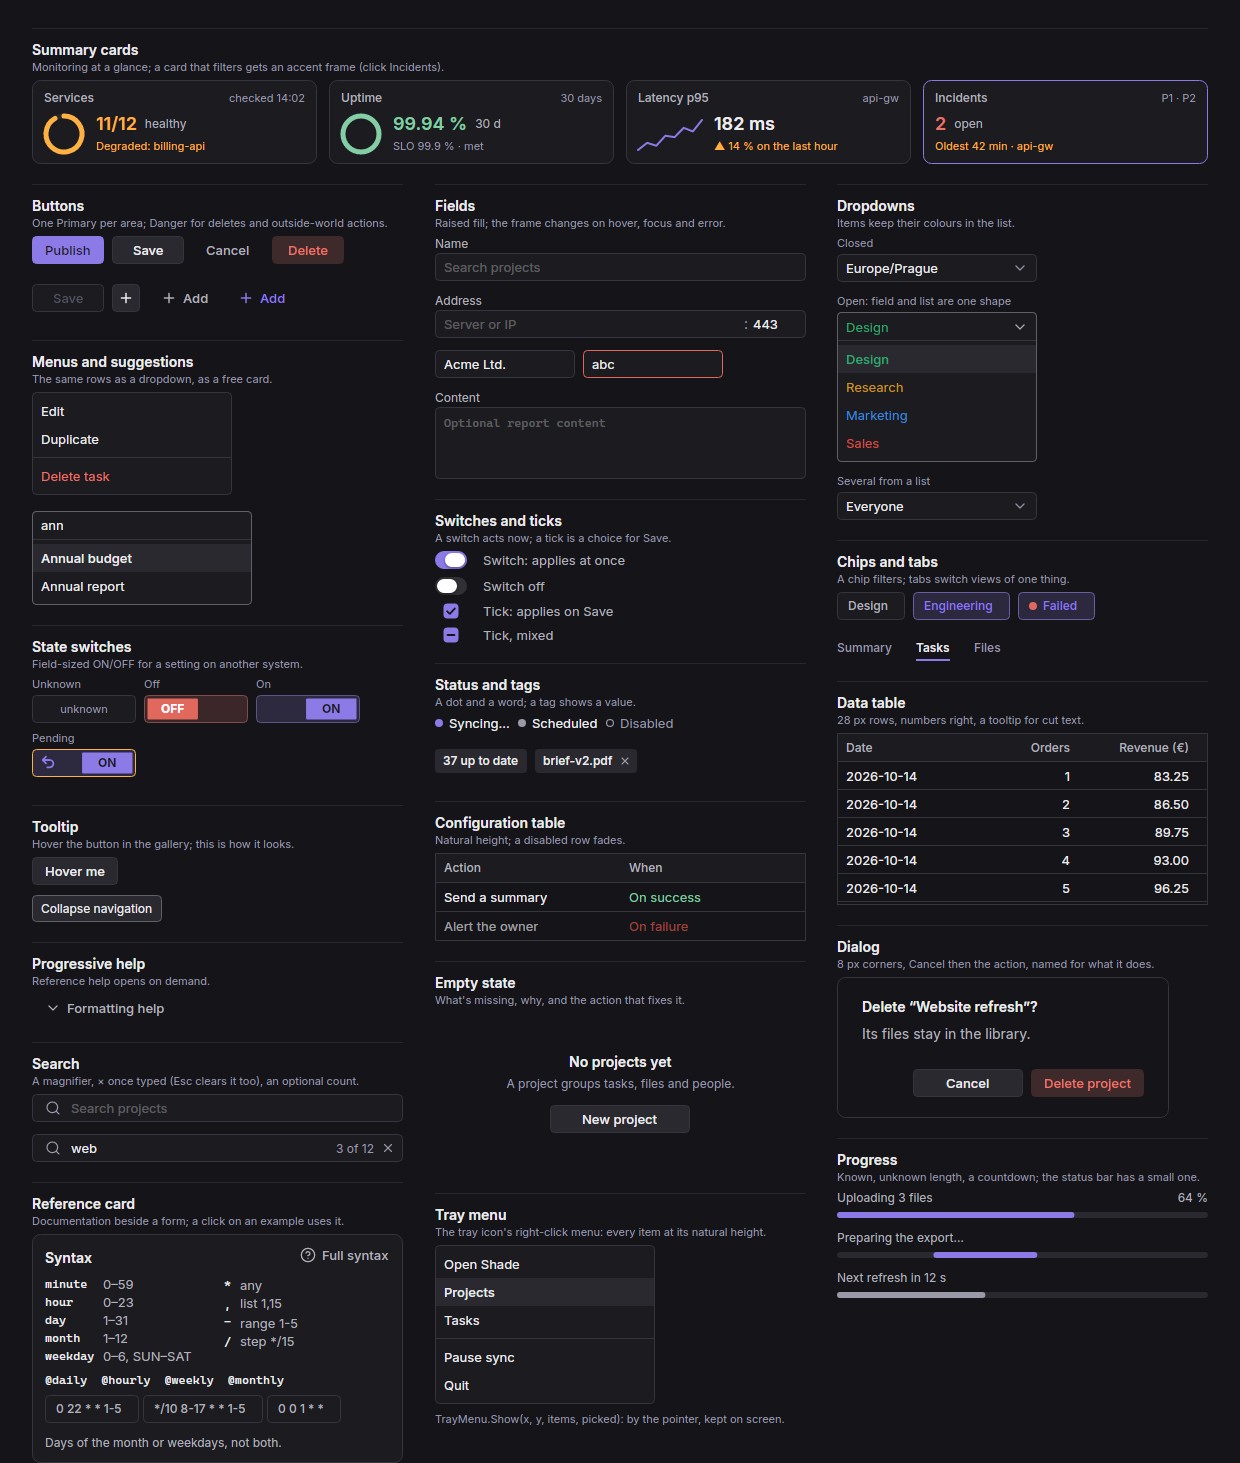
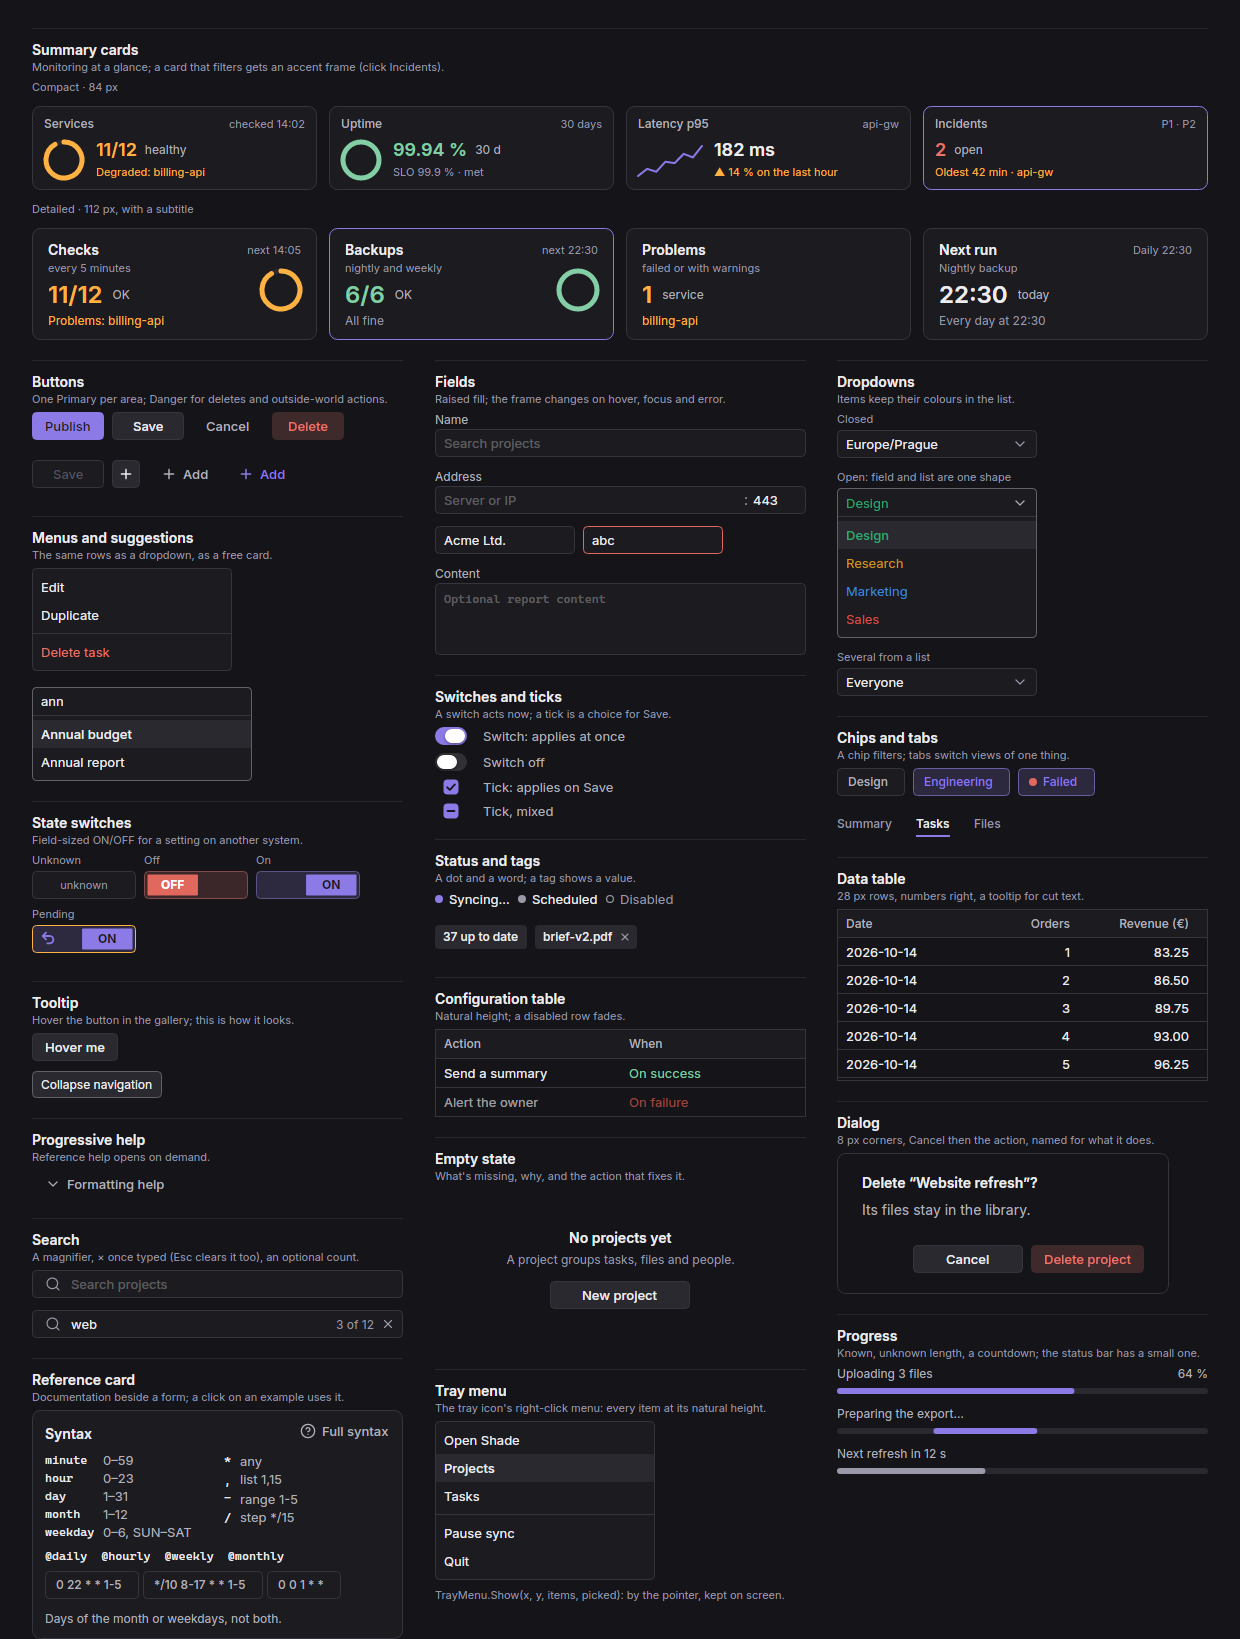
Summary cards: a detailed size with Harvest's amount of information
SummaryCards.Detailed (112 px, at least 200 px wide): the title in Section with
a subtitle under it and the corner value, the value at 24 px with its meaning,
the line, and the 44 px ring or trend line at the right, as the Jobs page's
cards show them, on Shade's corners and type. The compact 84 px card stays the
default. In the gallery, on the page (both rows filter), DESIGN.md and
DESIGN_SYSTEM.md.

Claude-Session: https://claude.ai/code/session_01QxTJAi3inP7GNkupvcErU3

diff --git a/docs/index.html b/docs/index.html
@@ -272,6 +272,12 @@
       <button class="s-card" aria-pressed="false"><div class="t"><span>Latency p95</span><span>api-gw</span></div><div class="body"><svg width="64" height="30" viewBox="0 0 64 30" aria-hidden="true"><polyline fill="none" stroke="var(--accent)" stroke-width="2" stroke-linejoin="round" stroke-linecap="round" points="1,27 9,21 18,23 27,15 36,16 45,9 54,12 63,3"/></svg><div><div class="v"><b>182 ms</b><span></span></div><div class="l" style="color:var(--warning)">▲ 14 % on the last hour</div></div></div></button>
       <button class="s-card" aria-pressed="true"><div class="t"><span>Incidents</span><span>P1 · P2</span></div><div class="body"><div><div class="v"><b style="color:var(--danger-text)">2</b><span>open</span></div><div class="l" style="color:var(--warning)">Oldest 42 min · api-gw</div></div></div></button>
     </div>
+    <div class="s-cards detailed">
+      <button class="s-card detailed" aria-pressed="false"><div class="t"><span>Checks</span><span>next 14:05</span></div><div class="s">every 5 minutes</div><div class="body"><div><div class="v"><b style="color:var(--warning)">11/12</b><span>OK</span></div></div><svg width="44" height="44" viewBox="0 0 44 44" aria-hidden="true"><circle cx="22" cy="22" r="19" fill="none" stroke="var(--fill)" stroke-width="5"/><circle cx="22" cy="22" r="19" fill="none" stroke="var(--warning)" stroke-width="5" stroke-linecap="round" stroke-dasharray="109.5 130" transform="rotate(-90 22 22)"/></svg></div><div class="l" style="color:var(--warning)">Problems: billing-api</div></button>
+      <button class="s-card detailed" aria-pressed="true"><div class="t"><span>Backups</span><span>next 22:30</span></div><div class="s">nightly and weekly</div><div class="body"><div><div class="v"><b style="color:var(--success)">6/6</b><span>OK</span></div></div><svg width="44" height="44" viewBox="0 0 44 44" aria-hidden="true"><circle cx="22" cy="22" r="19" fill="none" stroke="var(--fill)" stroke-width="5"/><circle cx="22" cy="22" r="19" fill="none" stroke="var(--success)" stroke-width="5" stroke-linecap="round" stroke-dasharray="119.4 130" transform="rotate(-90 22 22)"/></svg></div><div class="l">All fine</div></button>
+      <button class="s-card detailed" aria-pressed="false"><div class="t"><span>Problems</span><span></span></div><div class="s">failed or with warnings</div><div class="body"><div><div class="v"><b style="color:var(--warning)">1</b><span>service</span></div></div></div><div class="l" style="color:var(--warning)">billing-api</div></button>
+      <button class="s-card detailed" aria-pressed="false"><div class="t"><span>Next run</span><span>Daily 22:30</span></div><div class="s">Nightly backup</div><div class="body"><div><div class="v"><b>22:30</b><span>today</span></div></div></div><div class="l">Every day at 22:30</div></button>
+    </div>
     <div class="masonry">
       <div class="block"><h3>Buttons</h3><p class="help">One Primary per area; Danger for deletes and outside-world actions.</p>
         <div class="row-wrap"><button class="s-btn primary">Publish</button><button class="s-btn">Save</button><button class="s-btn ghost">Cancel</button><button class="s-btn danger">Delete</button></div>

diff --git a/gallery/landing.html b/gallery/landing.html
@@ -203,6 +203,12 @@
       <button class="s-card" aria-pressed="false"><div class="t"><span>Latency p95</span><span>api-gw</span></div><div class="body"><svg width="64" height="30" viewBox="0 0 64 30" aria-hidden="true"><polyline fill="none" stroke="var(--accent)" stroke-width="2" stroke-linejoin="round" stroke-linecap="round" points="1,27 9,21 18,23 27,15 36,16 45,9 54,12 63,3"/></svg><div><div class="v"><b>182 ms</b><span></span></div><div class="l" style="color:var(--warning)">▲ 14 % on the last hour</div></div></div></button>
       <button class="s-card" aria-pressed="true"><div class="t"><span>Incidents</span><span>P1 · P2</span></div><div class="body"><div><div class="v"><b style="color:var(--danger-text)">2</b><span>open</span></div><div class="l" style="color:var(--warning)">Oldest 42 min · api-gw</div></div></div></button>
     </div>
+    <div class="s-cards detailed">
+      <button class="s-card detailed" aria-pressed="false"><div class="t"><span>Checks</span><span>next 14:05</span></div><div class="s">every 5 minutes</div><div class="body"><div><div class="v"><b style="color:var(--warning)">11/12</b><span>OK</span></div></div><svg width="44" height="44" viewBox="0 0 44 44" aria-hidden="true"><circle cx="22" cy="22" r="19" fill="none" stroke="var(--fill)" stroke-width="5"/><circle cx="22" cy="22" r="19" fill="none" stroke="var(--warning)" stroke-width="5" stroke-linecap="round" stroke-dasharray="109.5 130" transform="rotate(-90 22 22)"/></svg></div><div class="l" style="color:var(--warning)">Problems: billing-api</div></button>
+      <button class="s-card detailed" aria-pressed="true"><div class="t"><span>Backups</span><span>next 22:30</span></div><div class="s">nightly and weekly</div><div class="body"><div><div class="v"><b style="color:var(--success)">6/6</b><span>OK</span></div></div><svg width="44" height="44" viewBox="0 0 44 44" aria-hidden="true"><circle cx="22" cy="22" r="19" fill="none" stroke="var(--fill)" stroke-width="5"/><circle cx="22" cy="22" r="19" fill="none" stroke="var(--success)" stroke-width="5" stroke-linecap="round" stroke-dasharray="119.4 130" transform="rotate(-90 22 22)"/></svg></div><div class="l">All fine</div></button>
+      <button class="s-card detailed" aria-pressed="false"><div class="t"><span>Problems</span><span></span></div><div class="s">failed or with warnings</div><div class="body"><div><div class="v"><b style="color:var(--warning)">1</b><span>service</span></div></div></div><div class="l" style="color:var(--warning)">billing-api</div></button>
+      <button class="s-card detailed" aria-pressed="false"><div class="t"><span>Next run</span><span>Daily 22:30</span></div><div class="s">Nightly backup</div><div class="body"><div><div class="v"><b>22:30</b><span>today</span></div></div></div><div class="l">Every day at 22:30</div></button>
+    </div>
     <div class="masonry">
       <div class="block"><h3>Buttons</h3><p class="help">One Primary per area; Danger for deletes and outside-world actions.</p>
         <div class="row-wrap"><button class="s-btn primary">Publish</button><button class="s-btn">Save</button><button class="s-btn ghost">Cancel</button><button class="s-btn danger">Delete</button></div>

diff --git a/docs/shade.css b/docs/shade.css
@@ -250,6 +250,15 @@ button.s-card:focus-visible { outline: none; border-color: var(--accent); }
 .s-card .v { display: flex; align-items: center; gap: 6px; height: 26px; }
 .s-card .v b { font: 600 18px/1 Inter, sans-serif; font-variant-numeric: tabular-nums; }
 .s-card .v span { color: var(--text-2); font-size: 12px; }
+.s-cards.detailed { grid-template-columns: repeat(auto-fit, minmax(200px, 1fr)); }
+.s-card.detailed { height: 112px; padding: 12px 16px; }
+.s-card.detailed .t { height: 20px; color: var(--text); font-size: 14px; font-weight: 600; }
+.s-card.detailed .t span + span { padding-top: 2px; }
+.s-card.detailed .s { height: 16px; color: var(--text-3); font-size: 11px; overflow: hidden; text-overflow: ellipsis; white-space: nowrap; }
+.s-card.detailed .body { align-items: center; margin-top: 0; height: 36px; }
+.s-card.detailed .v { height: 32px; gap: 8px; }
+.s-card.detailed .v b { font-size: 24px; }
+.s-card.detailed .l { font-size: 12px; height: 18px; }
 .s-card .l { height: 16px; margin-top: 2px; color: var(--text-3); font-size: 11px; overflow: hidden; text-overflow: ellipsis; white-space: nowrap; }
 
 /* ---- search (SearchField) ----------------------------------------------------------------------------------------- */

diff --git a/src/Shade/Controls/SummaryCards.cs b/src/Shade/Controls/SummaryCards.cs
@@ -13,12 +13,17 @@ namespace Shade
     /// <summary>A row of equal cards (DESIGN_SYSTEM.md §6 Summary cards), 84 px high: the title and a corner value on top;
     /// below, an optional 40 px ring (a share) or trend line at the left, and beside it the value in its status colour with
     /// its unit and one line on what needs a look.
-    /// With Picked set, a click picks a card (a filter); an active card has an accent frame. Cards wrap into rows below 160 px.</summary>
+    /// Detailed: 112 px, for a row that says more (the Jobs page's cards): the title in Section with a subtitle under it and
+    /// the corner value, the value at 24 px with its meaning, the line, and the ring or trend line at the right.
+    /// With Picked set, a click picks a card (a filter); an active card has an accent frame. Cards wrap into rows below
+    /// 160 px (200 px detailed).</summary>
     public sealed class SummaryCards : Control
     {
         public sealed class Item
         {
             public string Key, Title, Value, Unit, Line, Corner;
+            /// <summary>Detailed cards only: one line under the title (what the card counts).</summary>
+            public string Sub;
             /// <summary>0..1: a ring in the value's colour. Trend: a small line of the last values, instead of the ring.</summary>
             public double? Share;
             public double[] Trend;
@@ -32,7 +37,12 @@ namespace Shade
         /// <summary>A card was clicked (its Key); unset = the cards only show.</summary>
         public event Action<string> Picked;
         int hot = -1;
-        const double Gap = 12, CardH = 84, MinCard = 160;
+        bool detailed;
+        /// <summary>The larger card, with a subtitle and a 24 px value (112 px high instead of 84).</summary>
+        public bool Detailed { get => detailed; set { detailed = value; InvalidateMeasure(); InvalidateVisual(); } }
+        const double Gap = 12;
+        double CardH => detailed ? 112 : 84;
+        double MinCard => detailed ? 200 : 160;
 
         public SummaryCards()
         {
@@ -63,6 +73,7 @@ namespace Shade
             {
                 var it = items[i]; var r = CardAt(i, Bounds.Width);
                 FillRound(g, r, CardRadius, i == hot ? Surface2 : Surface, it.Active ? Accent : i == hot ? MenuEdge : Look.Border);
+                if (detailed) { Detail(g, it, r); continue; }
                 double x = r.X + 12, right = r.Right - 12, inner = right - x;
                 // the title (Label) and the corner value (Caption), on one line
                 double cw = it.Corner == null ? 0 : Math.Min(inner * 0.5, Look.Measure(it.Corner, Ui(8.25)) + 2);
@@ -79,6 +90,25 @@ namespace Shade
                 if (it.Unit != null) Draw(g, it.Unit, Ui(9), Second, new Rect(tx + vw + 6, r.Y + 36, Math.Max(0, space - vw - 6), 16));
                 if (it.Line != null) Draw(g, it.Line, Ui(8.25), it.LineTone ?? Faint, new Rect(tx, r.Y + 58, space, 16));
             }
+        }
+
+        /// <summary>A detailed card: the Jobs page's layout on Shade's sizes.</summary>
+        static void Detail(DrawingContext g, Item it, Rect r)
+        {
+            double x = r.X + 16, right = r.Right - 16;
+            bool trend = it.Trend is { Length: > 1 };
+            double figW = trend ? 72 : it.Share != null ? 44 : 0, textW = right - x - (figW > 0 ? figW + 12 : 0);
+            double cw = it.Corner == null ? 0 : Math.Min(textW * 0.6, Look.Measure(it.Corner, Ui(8.25)) + 2);
+            Draw(g, it.Title, Ui(10.5, 600), Look.Text, new Rect(x, r.Y + 12, right - x - cw - 8, 20));
+            if (it.Corner != null) Draw(g, it.Corner, Ui(8.25), Faint, new Rect(right - cw, r.Y + 14, cw, 16), TextAlignment.Right);
+            if (it.Sub != null) Draw(g, it.Sub, Ui(8.25), Faint, new Rect(x, r.Y + 32, textW, 16));
+            var valueF = Ui(18, 600);  // 24 px
+            double vw = Math.Min(textW, Look.Measure(it.Value, valueF) + 2);
+            Draw(g, it.Value, valueF, it.Tone ?? Look.Text, new Rect(x, r.Y + 50, vw, 32), ellipsis: false);
+            if (it.Unit != null) Draw(g, it.Unit, Ui(9), Second, new Rect(x + vw + 8, r.Y + 58, Math.Max(0, textW - vw - 8), 18));
+            if (it.Line != null) Draw(g, it.Line, Ui(9), it.LineTone ?? Faint, new Rect(x, r.Y + 84, right - x, 18));
+            if (trend) Spark(g, it.Trend, new Rect(right - figW, r.Y + 46, figW, 32), it.Tone ?? Accent);
+            else if (it.Share is double sh) Ring(g, new Point(right - 20, r.Y + 62), 19, sh, it.Tone ?? Accent);
         }
 
         static void Ring(DrawingContext g, Point c, double r, double share, Color col)

diff --git a/gallery/Showcase.cs b/gallery/Showcase.cs
@@ -204,7 +204,17 @@ static class Showcase
         };
         cards.Items = items;
         cards.Picked += key => { foreach (var it in items) it.Active = it.Key == key && !it.Active; cards.Items = items; };
-        return cards;
+        var detailed = new SummaryCards { Detailed = true };
+        var more = new List<SummaryCards.Item>
+        {
+            new() { Key = "checks", Title = "Checks", Sub = "every 5 minutes", Value = "11/12", Unit = "OK", Share = 11 / 12.0, Tone = Warn, Line = "Problems: billing-api", LineTone = Warn, Corner = "next 14:05" },
+            new() { Key = "backups", Title = "Backups", Sub = "nightly and weekly", Value = "6/6", Unit = "OK", Share = 1, Tone = Success, Line = "All fine", Corner = "next 22:30", Active = true },
+            new() { Key = "problems", Title = "Problems", Sub = "failed or with warnings", Value = "1", Unit = "service", Tone = Warn, Line = "billing-api", LineTone = Warn },
+            new() { Key = "next", Title = "Next run", Sub = "Nightly backup", Value = "22:30", Unit = "today", Line = "Every day at 22:30", Corner = "Daily 22:30" },
+        };
+        detailed.Items = more;
+        detailed.Picked += key => { foreach (var it in more) it.Active = it.Key == key && !it.Active; detailed.Items = more; };
+        return Stack(12, Kit.Text("Compact · 84 px", Faint, 8.25), cards, Kit.Text("Detailed · 112 px, with a subtitle", Faint, 8.25), detailed);
     }
 
     static Control Searches()

diff --git a/gallery/DesignDoc.cs b/gallery/DesignDoc.cs
@@ -239,6 +239,12 @@ static class DesignDoc
     title: ""{typography.label}""
     value: 18px 600
     line: ""{typography.caption}""
+  summary-cards-detailed:
+    height: 112px
+    title: ""{typography.section}""
+    subtitle: ""{typography.caption}""
+    value: 24px 600
+    ring: 44px at the right
   search-field:
     backgroundColor: ""{colors.raised}""
     borderColor: ""{colors.separator}""

diff --git a/DESIGN.md b/DESIGN.md
@@ -246,6 +246,12 @@ components:
     title: "{typography.label}"
     value: 18px 600
     line: "{typography.caption}"
+  summary-cards-detailed:
+    height: 112px
+    title: "{typography.section}"
+    subtitle: "{typography.caption}"
+    value: 24px 600
+    ring: 44px at the right
   search-field:
     backgroundColor: "{colors.raised}"
     borderColor: "{colors.separator}"
@@ -508,7 +514,7 @@ Code: `Switch`, `Tick`, `TickGrid`, `StateToggle`, `StateLook`.
 
 ### Monitoring
 
-**`summary-cards`** — A row of equal 84px cards in monitoring words: the title in `{typography.label}` with a corner value; below, a 40px ring for a share or a 64px trend line at the bottom left, and beside it the figure (18px, 600, its status colour) with its unit and one `{typography.caption}` line on what needs a look. `{rounded.card}`, `{colors.raised}`; a card that filters gets a `{colors.accent}` frame. Code: `SummaryCards`.
+**`summary-cards`** — A row of equal 84px cards in monitoring words: the title in `{typography.label}` with a corner value; below, a 40px ring for a share or a 64px trend line at the bottom left, and beside it the figure (18px, 600, its status colour) with its unit and one `{typography.caption}` line on what needs a look. **`summary-cards-detailed`** (112px) adds a `{typography.caption}` subtitle under a `{typography.section}` title, a 24px value and the ring or trend line at the right. `{rounded.card}`, `{colors.raised}`; a card that filters gets a `{colors.accent}` frame. Code: `SummaryCards`.
 
 **`search-field`** — A text field with a 16px magnifier in `{colors.text-3}`, × once typed (Esc clears), an optional count ("3 of 12"). Code: `SearchField`.
 

diff --git a/docs/DESIGN_SYSTEM.md b/docs/DESIGN_SYSTEM.md
@@ -249,7 +249,10 @@ Centred in the area that would hold the content: a `Section` title, one line of 
 `SummaryCards`: a row of equal, compact cards above a list, one per thing worth watching, in monitoring words (Services,
 Uptime, Latency p95, Incidents). 84 px high, 8 px corners, `Raised`: the title in `Label` with a small value in its
 right corner; below it, a 40 px ring for a share or a 64 px trend line at the bottom left, and beside it the figure
-(18 px, its status colour) with its unit and one `Caption` line on what needs a look. Cards wrap below 160 px each. A card that stands for a filter toggles it, one at
+(18 px, its status colour) with its unit and one `Caption` line on what needs a look.
+**Detailed** (`Detailed = true`, 112 px, at least 200 px wide) says more, for a page whose cards are its overview: the
+title in `Section` with a `Caption` subtitle under it and the corner value, the value at 24 px with its meaning, the
+line, and the 44 px ring or trend line at the right. Cards wrap below 160 px each. A card that stands for a filter toggles it, one at
 a time, with an `Accent` frame; cards without an action don't react to the pointer.
 
 ### Reference cards
